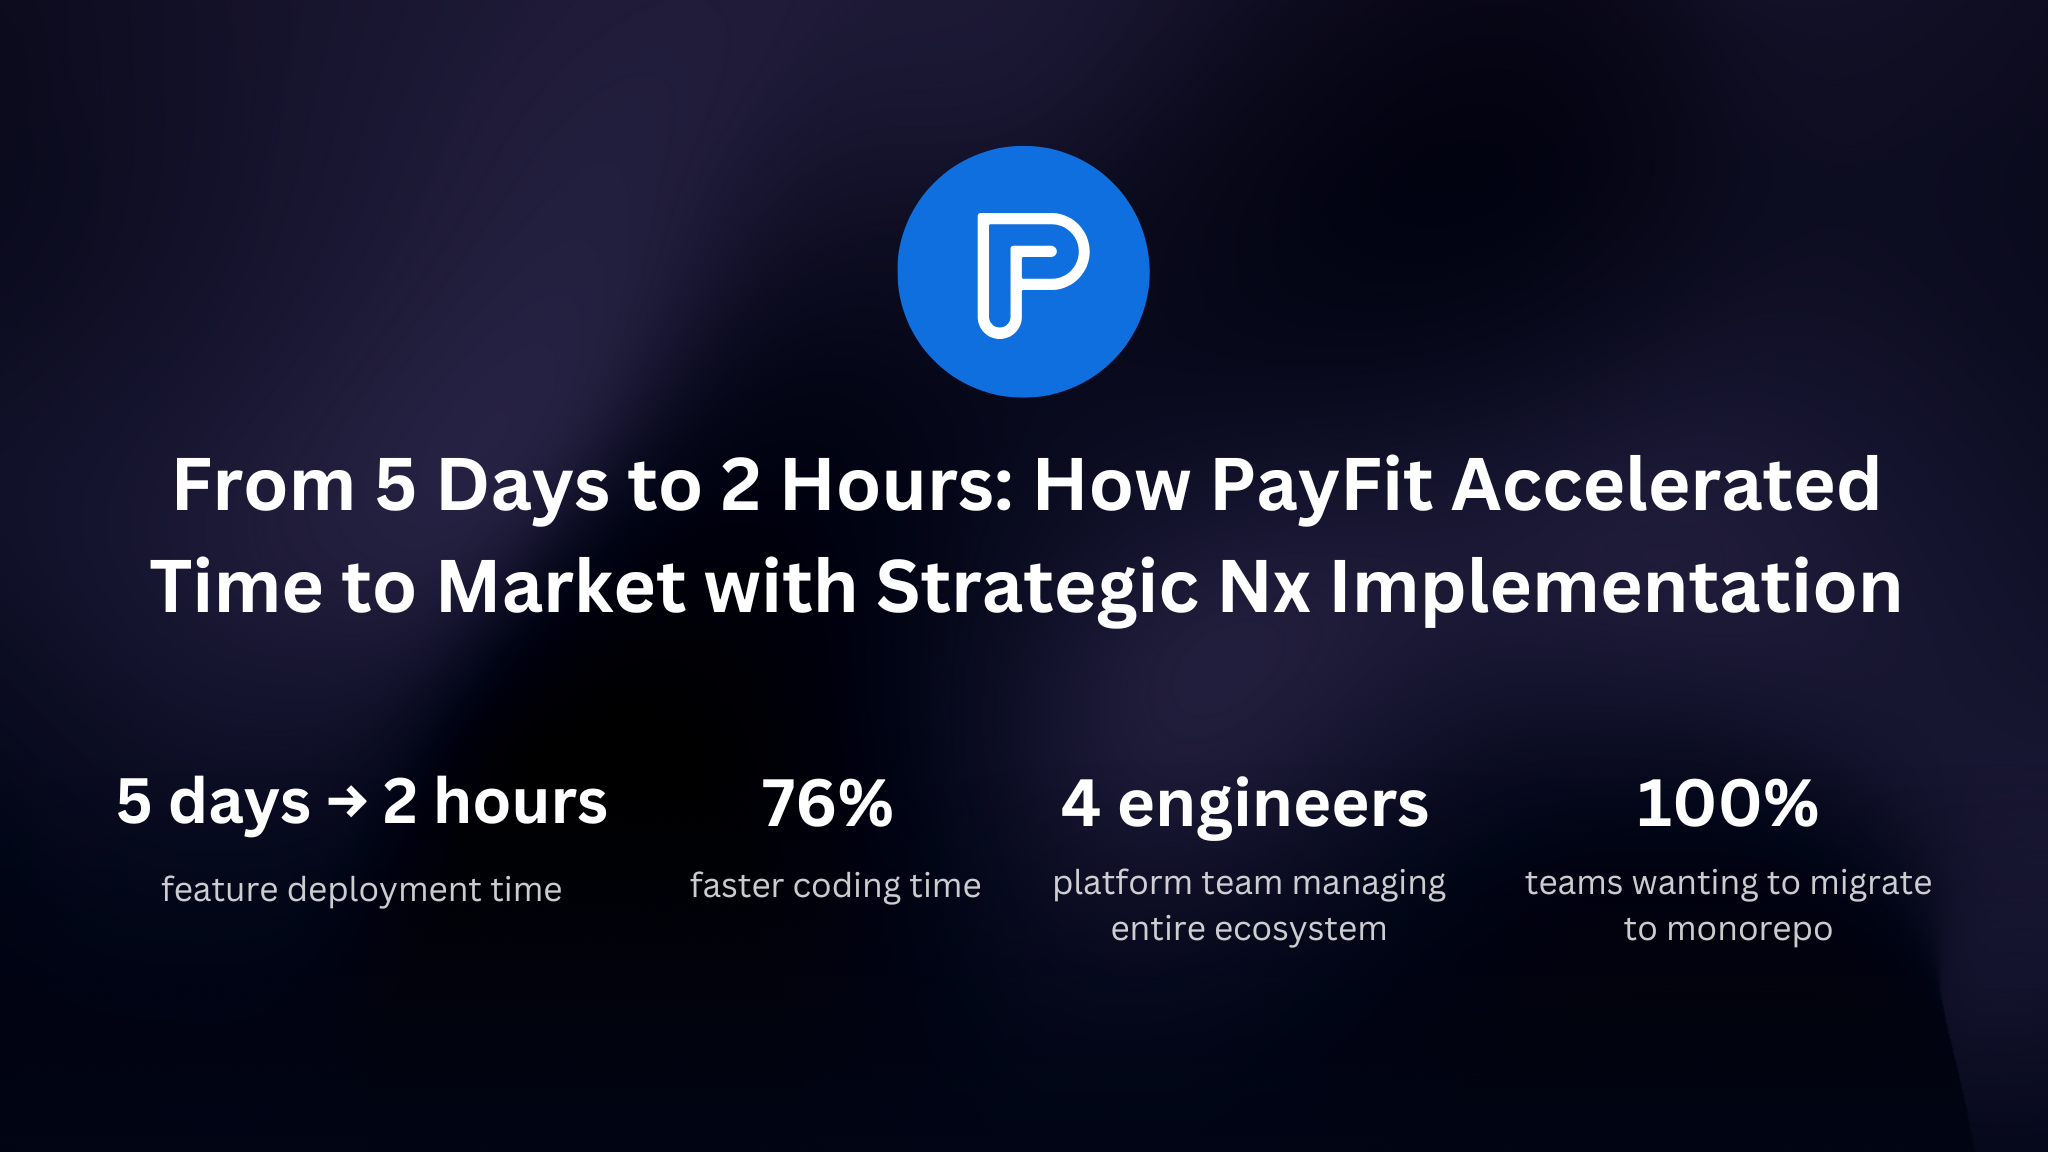
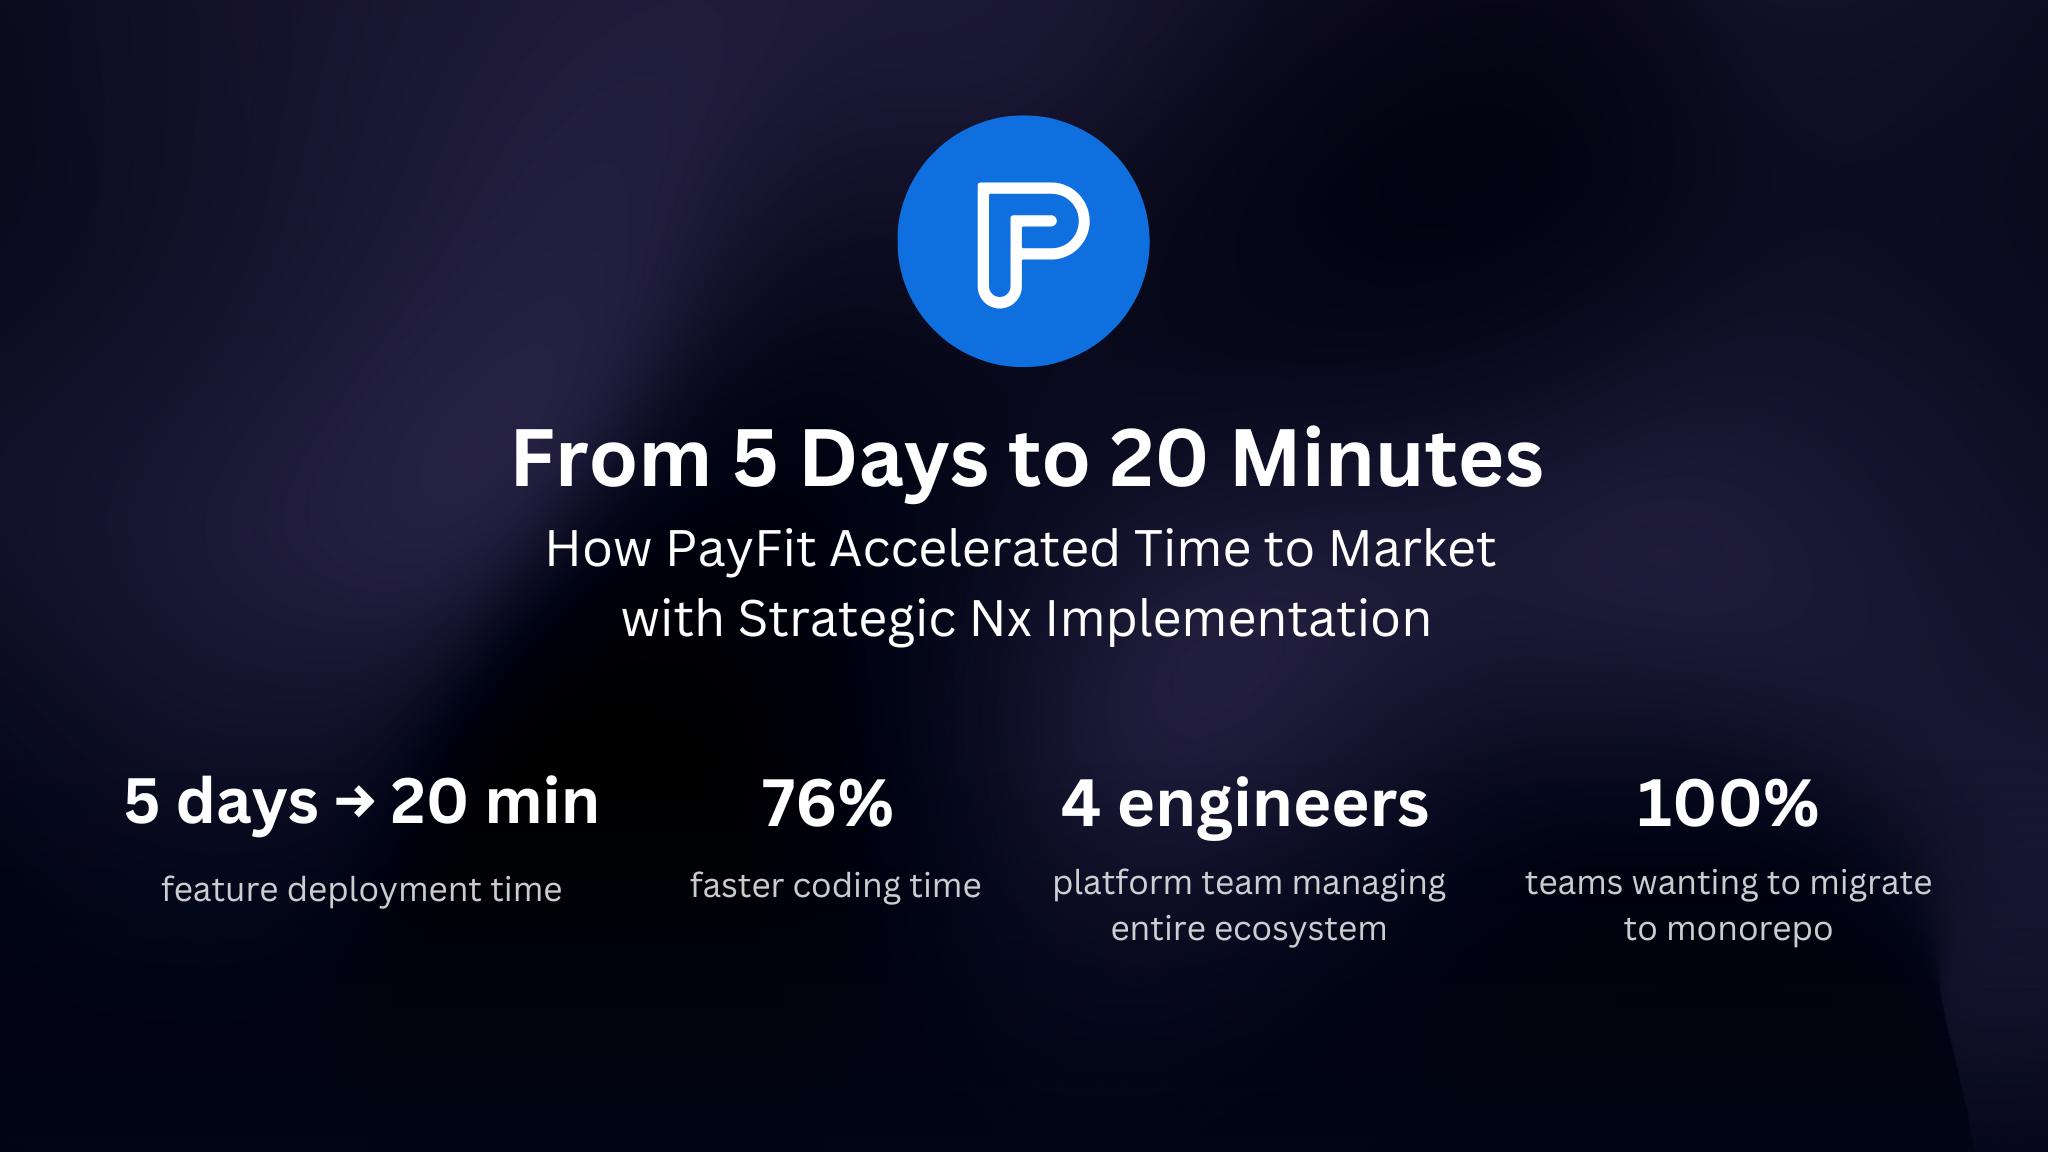
docs(nx-dev): update payfit blog post

diff --git a/docs/blog/2025-07-24-payfit-success-story.md b/docs/blog/2025-07-24-payfit-success-story.md
@@ -1,5 +1,5 @@
 ---
-title: 'From 5 Days to 2 Hours: How PayFit Accelerated Time to Market with Strategic Nx Implementation'
+title: 'From 5 Days to 20 Minutes: How PayFit Accelerated Time to Market with Strategic Nx Implementation'
 slug: payfit-success-story
 authors: [Juri Strumpflohner]
 tags: ['customer story']
@@ -7,7 +7,7 @@ description: Discover how a 4-person platform team at Payfit turned monorepo aba
 cover_image: /blog/images/articles/bg-payfit-customer-success.avif
 youtubeUrl: https://youtu.be/Vdk-tza4PCs
 metrics:
-  - value: '5 days→2 hours'
+  - value: '5 days→20 min'
     label: 'feature deployment time'
   - value: '75% faster'
     label: 'coding time'
@@ -68,14 +68,14 @@ This organic adoption was far more sustainable than the original top-down mandat
 
 The most striking improvement was in feature deployment speed:
 
-- **From 2-5 days to 2 hours maximum** – A reduction of up to 97% in deployment time
+- **From 2-5 days to 20 minutes maximum** – The initial optimization achieved in the October 2024 interview reduced deployment time to 2 hours (a 97% reduction). Since then, the PayFit team has continued optimizing their deployment pipeline, achieving just _20 minutes from branch push to full production deployment across all environments—including merge, dev, staging, e2e, and production_.
 - **75% faster coding** – Features that previously took much longer to code can now be developed in a quarter of the time
 
 {% testimonial
     name="Nicolas Beaussart"
     title="Staff Engineer, Payfit"
     image="/documentation/blog/images/articles/nicolas-beaussart.avif" %}
-A year ago to deploy a feature it took between 2 and 5 days because you had to go through all of the monorepos, all of the systems one by one to be able to deploy that. Today the same feature can be coded in like a quarter of the time and deploying like 2 hours tops.
+A year ago to deploy a feature it took between 2 and 5 days because you had to go through all of the monorepos, all of the systems one by one to be able to deploy that. Today the same feature can be coded in like a quarter of the time and deploying like 2 hours tops (now even down to only 20 min).
 {% /testimonial %}
 
 ### Restored Team Confidence in Monorepo Architecture
